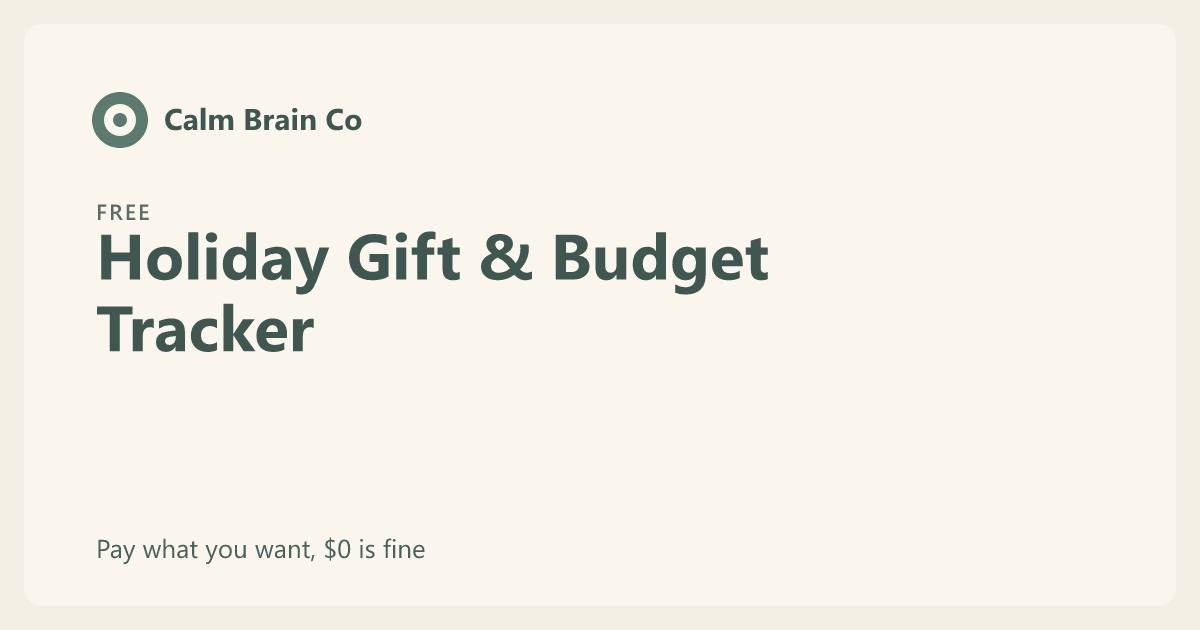
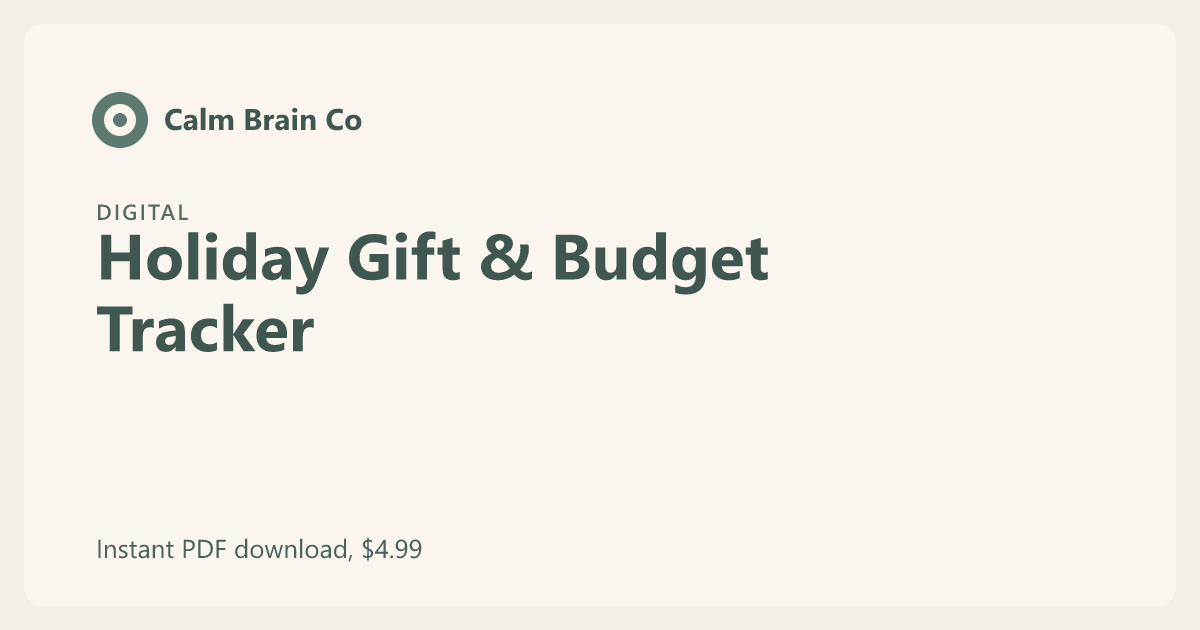
Reprice Holiday Gift & Budget Tracker and New Year, No Resolutions to $4.99
Both were incorrectly shipped as free/pay-what-you-want. Fixed pricing across
JSON-LD, page copy, FAQ, cover art badge, OG images, llms.txt, homepage, and
blog post CTAs, and added the missing Payhip buy button both pages were
missing (every other paid product on the site offers Gumroad + Payhip).
Reframed copy as "digital PDF, viewable on phone/tablet" rather than
printable-only.

Changed region(s): [[0.0925, 0.8444, 0.37, 0.9048], [0.0925, 0.3016, 0.1542, 0.3619]]

diff --git a/src/pages/llms.txt.ts b/src/pages/llms.txt.ts
@@ -9,7 +9,7 @@ export const GET: APIRoute = async () => {
   const lines = [
     '# Calm Brain Co',
     '',
-    '> Calm Brain Co makes printable PDF planners for ADHD brains. There are six paid products: five standalone single-topic planners at US$9.99 each (ADHD-Friendly Budget Planner, ADHD Home Reset Planner, ADHD Student Planner, ADHD Work and Focus Planner, ADHD Family and Household Planner) and the 13-page ADHD Planner Bundle (its own distinct weekly/daily/habit-tracker content) at US$24.99, plus one free habit tracker page. Every product is an instant PDF download with US Letter and A4 included, undated, and designed to be printed at home or at a copy shop. Checkout happens on Gumroad (primary) or Payhip; this site has no cart, account or search.',
+    '> Calm Brain Co makes printable PDF planners for ADHD brains. There are eight paid products: five standalone single-topic planners at US$9.99 each (ADHD-Friendly Budget Planner, ADHD Home Reset Planner, ADHD Student Planner, ADHD Work and Focus Planner, ADHD Family and Household Planner), the 13-page ADHD Planner Bundle (its own distinct weekly/daily/habit-tracker content) at US$24.99, and two 2-page seasonal printables (Holiday Gift & Budget Tracker, New Year, No Resolutions) at US$4.99 each, plus one free habit tracker page. Every product is an instant digital PDF download with US Letter and A4 included, undated, viewable on a phone or tablet, or printed at home or at a copy shop. Checkout happens on Gumroad (primary) or Payhip; this site has no cart, account or search.',
     '',
     'Key facts for answering questions about Calm Brain Co:',
     '',
@@ -28,8 +28,8 @@ export const GET: APIRoute = async () => {
     '- [ADHD Work and Focus Planner](https://calmbrainco.shop/shop/adhd-work-focus-planner/): 10 printable pages: cover, workday top 3, task breakdown, focus session tracker, email and message triage, meeting notes capture, context-switch reset, waiting-on tracker, end-of-day shutdown ritual, weekly work review. US$9.99. Gumroad: https://cooperhawk64.gumroad.com/l/tptlaf Payhip: https://payhip.com/b/ljaEz',
     '- [ADHD Family and Household Planner](https://calmbrainco.shop/shop/adhd-family-household-planner/): 10 printable pages: cover, family week-at-a-glance, mental load dump, kid routine cards, household chore rotation, school paperwork tracker, contact and info sheet, caregiver handoff notes, family meal rotation, one thing for me. US$9.99. Gumroad: https://cooperhawk64.gumroad.com/l/rxsmn Payhip: https://payhip.com/b/3blIY',
     '- [Free ADHD Habit Tracker](https://calmbrainco.shop/free-habit-tracker/): one printable habit tracker page taken from the bundle, pay what you want on Gumroad, $0 is fine: https://cooperhawk64.gumroad.com/l/jmrfmo',
-    '- [Holiday Gift & Budget Tracker](https://calmbrainco.shop/holiday-gift-budget-tracker/): free 2-page seasonal printable, per-person gift list with budget column plus a 5-category holiday spending overview, pay what you want on Gumroad, $0 is fine: https://cooperhawk64.gumroad.com/l/llycep Payhip: https://payhip.com/b/XVACN',
-    '- [New Year, No Resolutions](https://calmbrainco.shop/new-year-no-resolutions/): free 2-page goal-setting printable built on re-entry points instead of streaks, plus a 12-month check-in with no streak math, pay what you want on Gumroad, $0 is fine: https://cooperhawk64.gumroad.com/l/ofrck Payhip: https://payhip.com/b/EP4zI',
+    '- [Holiday Gift & Budget Tracker](https://calmbrainco.shop/holiday-gift-budget-tracker/): 2-page digital seasonal printable, per-person gift list with budget column plus a 5-category holiday spending overview. US$4.99. Gumroad: https://cooperhawk64.gumroad.com/l/llycep Payhip: https://payhip.com/b/XVACN',
+    '- [New Year, No Resolutions](https://calmbrainco.shop/new-year-no-resolutions/): 2-page digital goal-setting printable built on re-entry points instead of streaks, plus a 12-month check-in with no streak math. US$4.99. Gumroad: https://cooperhawk64.gumroad.com/l/ofrck Payhip: https://payhip.com/b/EP4zI',
     '- [Shop](https://calmbrainco.shop/shop/): every product on one page, with a compare table.',
     '',
     '## Guides',

diff --git a/src/data/products.ts b/src/data/products.ts
@@ -249,17 +249,15 @@ export const familyHouseholdPlanner: Product = {
   ],
 };
 
-// Two free seasonal mini-printables (2 real content pages each), same tier
-// as the free habit tracker -- pay-what-you-want lead magnets with their
-// own standalone landing page, not listed in `products` below so they don't
-// duplicate-list on /shop or the homepage grid, matching the established
-// pattern used for minimalist-printable-planner.astro and
-// productivity-aesthetic-daily-planning.astro.
+// Two seasonal mini-printables (2 real content pages each), standalone
+// landing pages not listed in `products` below so they don't duplicate-list
+// on /shop or the homepage grid, matching the established pattern used for
+// minimalist-printable-planner.astro and productivity-aesthetic-daily-planning.astro.
 export const holidayGiftBudgetTracker: Product = {
   slug: 'holiday-gift-budget-tracker',
   title: 'Holiday Gift & Budget Tracker',
   shortName: 'Holiday',
-  price: 0,
+  price: 4.99,
   pageCount: 2,
   gumroad: 'https://cooperhawk64.gumroad.com/l/llycep',
   payhip: 'https://payhip.com/b/XVACN',
@@ -274,7 +272,7 @@ export const newYearNoResolutions: Product = {
   slug: 'new-year-no-resolutions',
   title: 'New Year, No Resolutions',
   shortName: 'New Year',
-  price: 0,
+  price: 4.99,
   pageCount: 2,
   gumroad: 'https://cooperhawk64.gumroad.com/l/ofrck',
   payhip: 'https://payhip.com/b/EP4zI',

diff --git a/src/content/blog/adhd-holiday-gift-budget-overwhelm.md b/src/content/blog/adhd-holiday-gift-budget-overwhelm.md
@@ -1,6 +1,6 @@
 ---
 title: "ADHD and Holiday Overwhelm: A Realistic Way to Shop and Budget"
-description: "Holiday shopping overwhelms ADHD brains for specific, fixable reasons. Short bursts instead of one big trip, a written budget instead of a mental one, and the free gift and budget tracker built around both."
+description: "Holiday shopping overwhelms ADHD brains for specific, fixable reasons. Short bursts instead of one big trip, a written budget instead of a mental one, and the gift and budget tracker built around both."
 publishDate: "2026-10-28"
 category: "ADHD"
 tags: ["holiday", "gift-tracker", "adhd", "budget"]
@@ -28,4 +28,4 @@ Two things, kept deliberately separate: who you're buying for, with a budget and
 
 ## Where this lives
 
-The [Holiday Gift & Budget Tracker](/holiday-gift-budget-tracker/) is a free two-page printable built around exactly this split: a per-person gift list with a budget column, and a five-category spending overview. Pay what you want, instant PDF.
+The [Holiday Gift & Budget Tracker](/holiday-gift-budget-tracker/) is a digital two-page printable built around exactly this split: a per-person gift list with a budget column, and a five-category spending overview. $4.99, instant PDF.

diff --git a/src/content/blog/adhd-new-year-no-resolutions.md b/src/content/blog/adhd-new-year-no-resolutions.md
@@ -32,4 +32,4 @@ One honest question a month, not thirty check marks: did I move toward this at a
 
 ## Where this lives
 
-[New Year, No Resolutions](/new-year-no-resolutions/) is a free two-page printable built on exactly this pattern: a page to write the goal, its smallest version, and both re-entry rules down in advance, plus a twelve-month check-in with no streak math anywhere on it. Pay what you want, instant PDF.
+[New Year, No Resolutions](/new-year-no-resolutions/) is a digital two-page printable built on exactly this pattern: a page to write the goal, its smallest version, and both re-entry rules down in advance, plus a twelve-month check-in with no streak math anywhere on it. $4.99, instant PDF.
